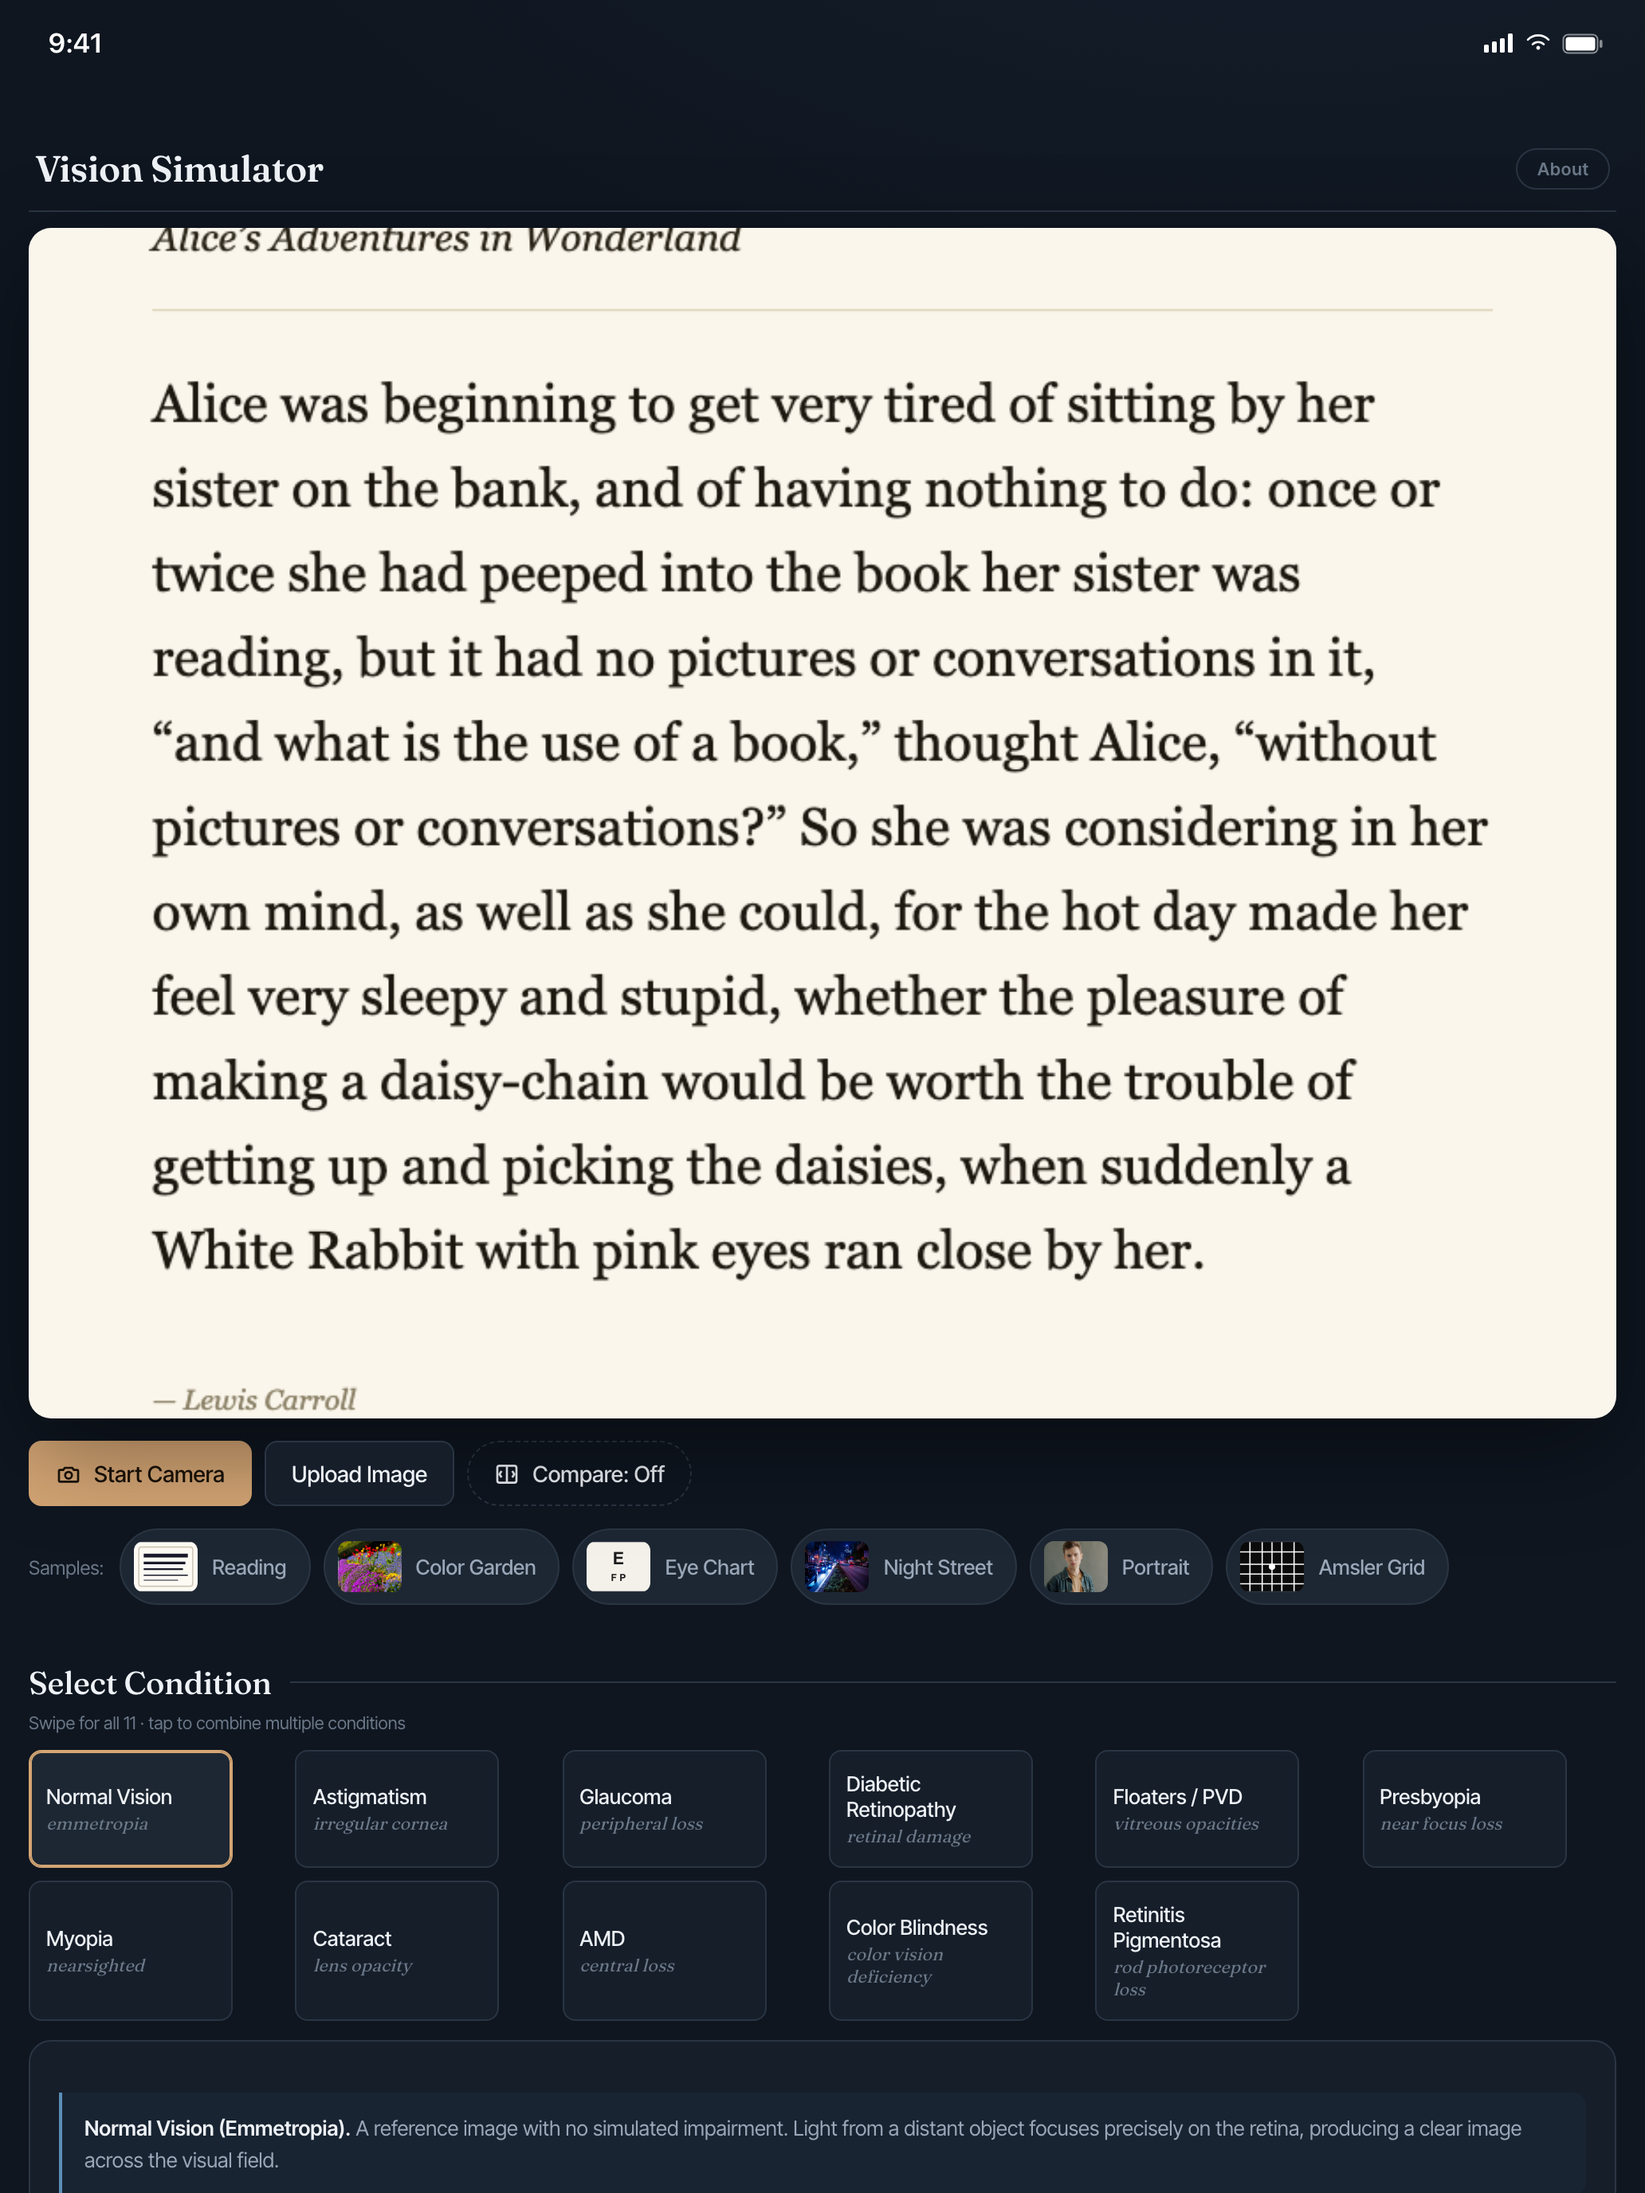
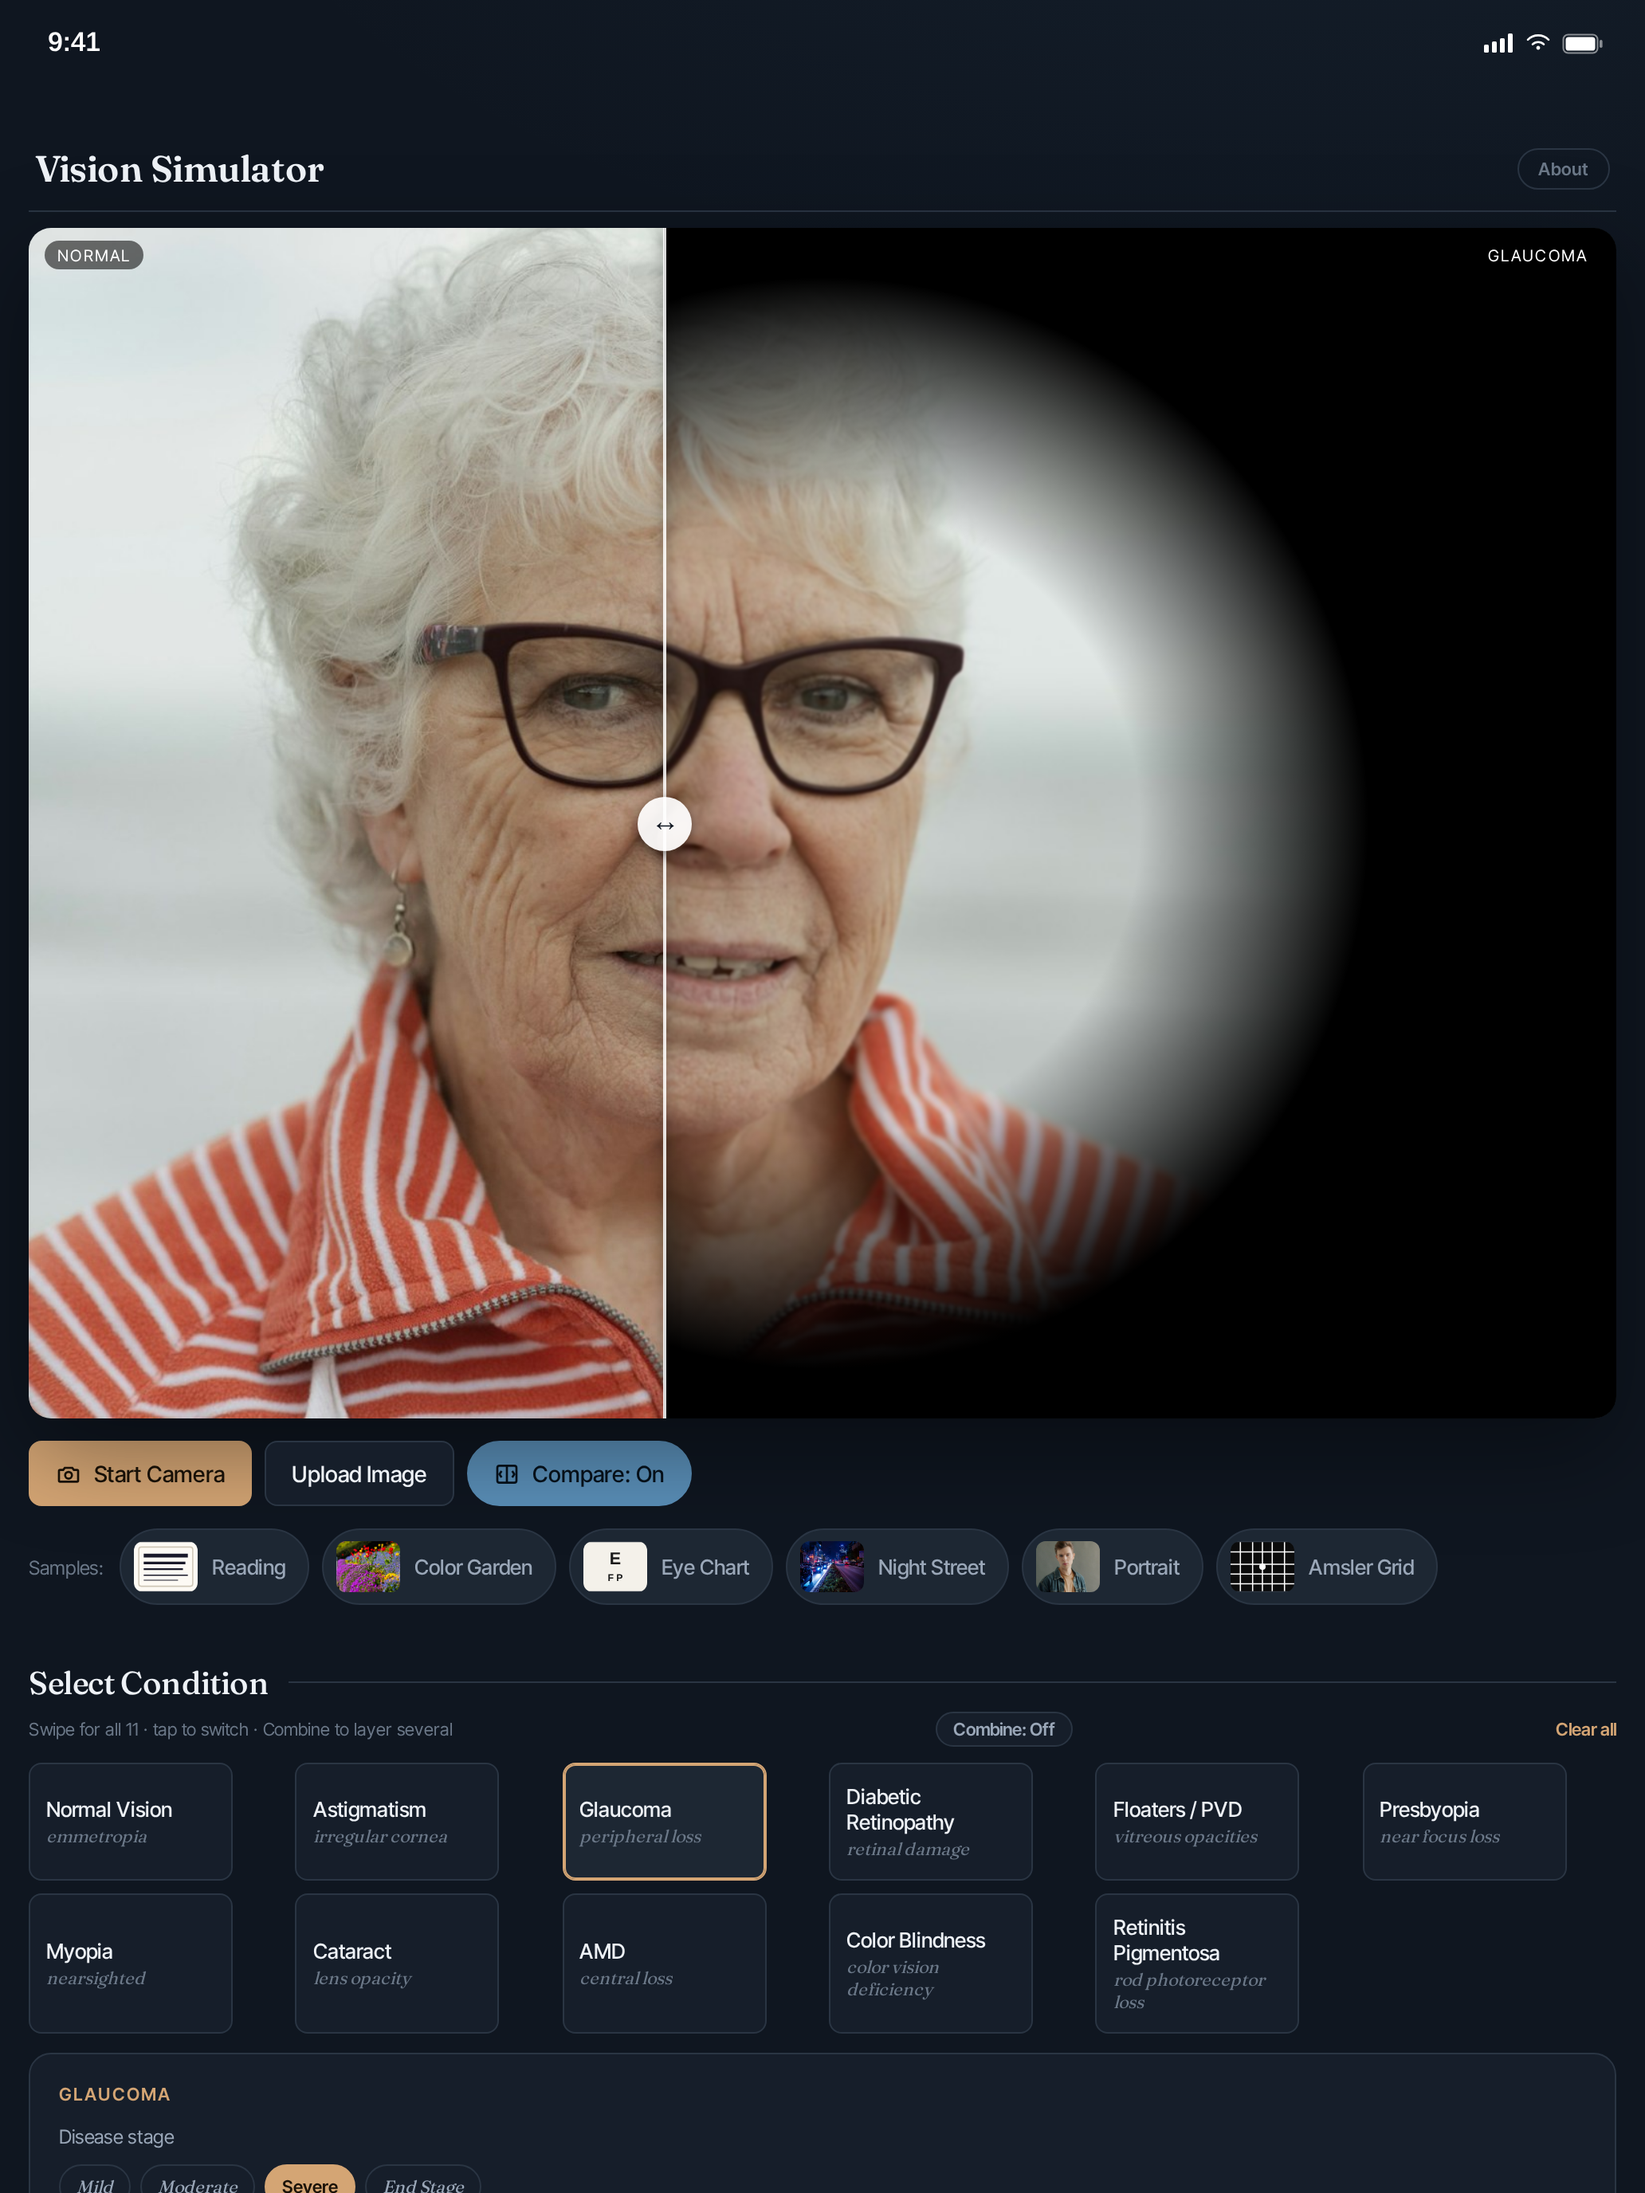
Vision Simulator hero screenshot: app Compare on a face (glaucoma), Unsplash-licensed photo

diff --git a/vision-simulator/capture-hero-compare.js b/vision-simulator/capture-hero-compare.js
@@ -1,0 +1,83 @@
+// Renders the hero App Store screen: the app's own Compare mode on an uploaded face photo.
+// Usage: serve vision-simulator/ on a local port, then
+//   APP_URL=http://localhost:8936/index.html OUT_DIR=./screens node capture-hero-compare.js
+// Default: Glaucoma (Severe), divider at 40%. Override with COND=cataract SEV=0.5 SPLIT=0.5.
+// Writes s1-hero.png (iPhone 1260x2736) and ipad-s1-hero.png (iPad 2064x2752).
+const { chromium } = require('playwright');
+const path = require('path');
+
+const APP_URL = process.env.APP_URL || 'http://localhost:8936/index.html';
+const OUT_DIR = process.env.OUT_DIR || path.join(__dirname, 'screens');
+const FACE = path.join(__dirname, 'screens/src/hero-face.jpg');   // see screens/src/CREDITS.md
+const COND = process.env.COND || 'glaucoma';
+const SEV = parseFloat(process.env.SEV || '0.8');
+const SPLIT = parseFloat(process.env.SPLIT || '0.4');
+
+const DEVICES = [
+  { file: 's1-hero.png', viewport: { width: 420, height: 912 }, scale: 3 },
+  { file: 'ipad-s1-hero.png', viewport: { width: 1032, height: 1376 }, scale: 2 },
+];
+
+const STATUS_BAR_HTML = `
+<div id="fakeStatusBar" style="height:54px; box-sizing:border-box; display:flex; align-items:center; justify-content:space-between; padding:0 26px 0 30px; position:relative; z-index:99999; font-family:-apple-system, BlinkMacSystemFont, sans-serif;">
+  <span style="color:#fff; font-size:17px; font-weight:600; letter-spacing:-0.2px;">9:41</span>
+  <div style="display:flex; align-items:center; gap:7px;">
+    <svg width="19" height="12" viewBox="0 0 19 12" fill="none"><rect x="0" y="7" width="3" height="5" rx="0.8" fill="#fff"/><rect x="5" y="5" width="3" height="7" rx="0.8" fill="#fff"/><rect x="10" y="3" width="3" height="9" rx="0.8" fill="#fff"/><rect x="15" y="0" width="3" height="12" rx="0.8" fill="#fff"/></svg>
+    <svg width="16" height="12" viewBox="0 0 16 12" fill="none"><path d="M8 10.2C8.66 10.2 9.2 9.66 9.2 9C9.2 8.34 8.66 7.8 8 7.8C7.34 7.8 6.8 8.34 6.8 9C6.8 9.66 7.34 10.2 8 10.2Z" fill="#fff"/><path d="M4.5 6.8C5.4 5.9 6.65 5.35 8 5.35C9.35 5.35 10.6 5.9 11.5 6.8" stroke="#fff" stroke-width="1.3" stroke-linecap="round" fill="none"/><path d="M1.5 3.9C3.15 2.25 5.45 1.2 8 1.2C10.55 1.2 12.85 2.25 14.5 3.9" stroke="#fff" stroke-width="1.3" stroke-linecap="round" fill="none"/></svg>
+    <svg width="26" height="13" viewBox="0 0 26 13" fill="none"><rect x="0.75" y="0.75" width="21.5" height="11.5" rx="3" stroke="#fff" stroke-opacity="0.5" stroke-width="1"/><rect x="2.25" y="2.25" width="18.5" height="8.5" rx="1.8" fill="#fff"/><rect x="23.5" y="4" width="1.8" height="5" rx="0.9" fill="#fff" fill-opacity="0.5"/></svg>
+  </div>
+</div>`;
+
+async function injectStatusBar(page) {
+  await page.evaluate((html) => {
+    const wrap = document.createElement('div');
+    wrap.innerHTML = html;
+    document.body.insertBefore(wrap.firstElementChild, document.body.firstChild);
+  }, STATUS_BAR_HTML);
+}
+
+async function injectStatusBar(page) {
+  await page.evaluate((html) => {
+    const wrap = document.createElement('div');
+    wrap.innerHTML = html;
+    document.body.insertBefore(wrap.firstElementChild, document.body.firstChild);
+  }, STATUS_BAR_HTML);
+}
+
+(async () => {
+  const browser = await chromium.launch();
+  for (const d of DEVICES) {
+    const ctx = await browser.newContext({ viewport: d.viewport, deviceScaleFactor: d.scale });
+    await ctx.addInitScript(() => { window.Capacitor = { isNativePlatform: () => true }; });
+    const page = await ctx.newPage();
+    await page.goto(APP_URL);
+    await page.waitForTimeout(300);
+    await page.setInputFiles('#upload', FACE);          // the app's Upload Image button
+    await page.waitForTimeout(400);
+    await page.click(`.cond[data-cond="${COND}"]`);
+    await page.waitForTimeout(150);
+    if (COND === 'cataract') {
+      await page.evaluate((v) => { const el = document.getElementById('ctrl_cataractSev'); el.value = v; el.dispatchEvent(new Event('input')); }, SEV);
+    } else if (COND === 'glaucoma') {
+      await page.click('#glaucomaStages .preset:has-text("Severe")');
+    }
+    await page.waitForTimeout(150);
+    await page.click('#compareToggle');
+    await page.waitForTimeout(200);
+    // Drag the divider like a user would.
+    const box = await page.locator('.stage-wrap').boundingBox();
+    const y = box.y + box.height / 2;
+    await page.mouse.move(box.x + box.width * 0.5, y);
+    await page.mouse.down();
+    await page.mouse.move(box.x + box.width * SPLIT, y, { steps: 5 });
+    await page.mouse.up();
+    await page.evaluate(() => { window.scrollTo(0, 0); document.activeElement && document.activeElement.blur(); });
+    await page.mouse.move(0, 0);
+    await injectStatusBar(page);
+    await page.waitForTimeout(150);
+    await page.screenshot({ path: path.join(OUT_DIR, d.file) });
+    console.log('saved', d.file);
+    await ctx.close();
+  }
+  await browser.close();
+})();

diff --git a/vision-simulator/screens/src/CREDITS.md b/vision-simulator/screens/src/CREDITS.md
@@ -1,0 +1,7 @@
+# Screenshot source images
+
+`hero-face.jpg`: "An elderly woman smiles at the camera." by Age Cymru (@agecymru) on Unsplash,
+https://unsplash.com/photos/an-elderly-woman-smiles-at-the-camera-KBRytaQYDGA
+Free to use under the Unsplash License (https://unsplash.com/license). Cropped to 16:9 and resized.
+Used only for App Store screenshots (loaded through the app's Upload Image button by
+`capture-hero-compare.js`); it is not one of the app's built-in samples.
